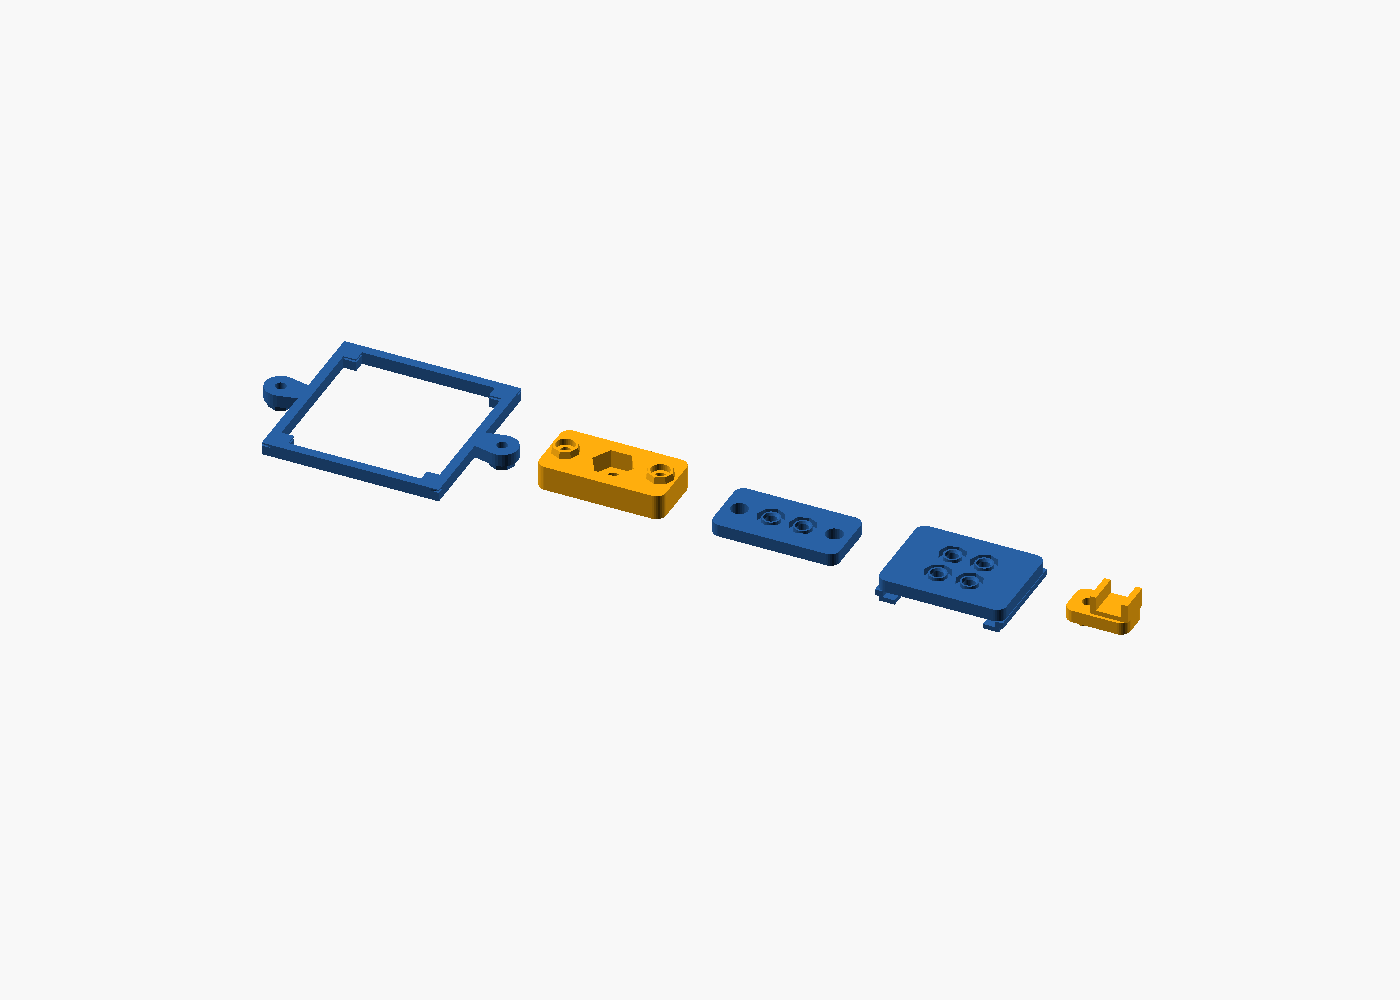
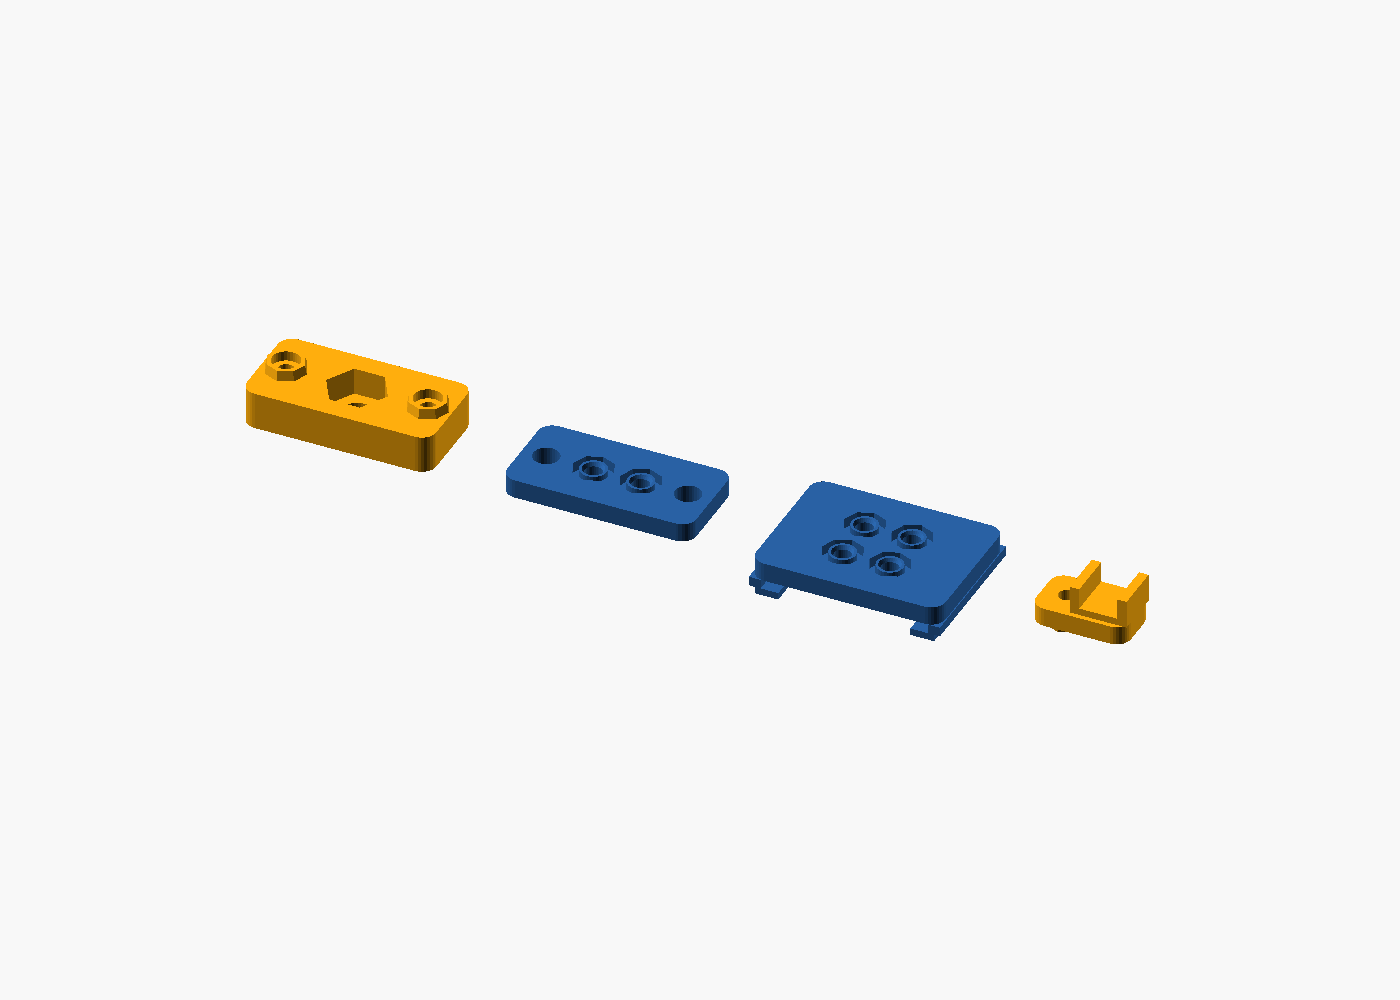
Remove AprilTag holder

Changed region(s): [[0.1536, 0.341, 0.8293, 0.651]]

diff --git a/docs/PRODUCT.md b/docs/PRODUCT.md
@@ -25,7 +25,6 @@ is not a safety component. A production release requires every gate in
 | RM-GR-2060-A | `grove_carrier_20x60.stl` | A | Grove 20×60 carrier |
 | RM-GR-4040-A | `grove_carrier_40x40.stl` | A | Grove 40×40 carrier |
 | RM-GR-4060-A | `grove_carrier_40x60.stl` | A | Grove 40×60 carrier |
-| RM-AT-0050-A | `apriltag_holder_50.stl` | A | 50 mm AprilTag holder |
 | RM-TR-1420-A | `tripod_adapter.stl` | A | 1/4-20 tripod adapter |
 | RM-PF-2020-A | `profile_2020_adapter.stl` | A | 20-series slot-6 adapter |
 | RM-DN-TH35-A | `din_rail_adapter.stl` | A | TH35 end-slide adapter |
@@ -71,7 +70,6 @@ standoff insert after passing through a 1.6 mm PCB.
 | 2020 adapter | V0.1 pegs/carriers | 20-series, 6 mm slot, M5 T-nuts | Not for slot-5, slot-8, or 40-series profiles without verification |
 | DIN adapter | V0.1 pegs/carriers | EN 60715 TH35 rail | Slides on from a free rail end; it is not a front-snap clip |
 | Tripod adapter | V0.1 plate | 1/4-20 tripod screw | Maximum 4.5 mm screw entry into adapter |
-| AprilTag holder | V0.1 plate | 50×50 mm printed card | No optical-range claim; print tag at exact scale |
 | Cable clip | V0.1 plate | 7.5 mm nominal flat Grove cable | Verify cable jacket compression before repeated use |
 | H25T drive plate | Four V0.1 corner female ports with M3-through paths | STS3215/LeRobot H25T horn, 4×M3 at 7 mm radius | All five horn screws install from the port face |
 | H25T end-effector hub | H25T drive plate | Five top ports plus two ports on each vertical face | Four 22 mm corner M3 access bores lock into the drive plate |

diff --git a/docs/LIBRARY.md b/docs/LIBRARY.md
@@ -23,7 +23,6 @@ flat_join(width_ports=2, depth_ports=2);
 angle_join(width_ports=2, depth_ports=2);
 outer_angle_join(width_ports=2, depth_ports=2, plate_t=RM_PLATE_T);
 grove_carrier(board_size=[20,20]);
-apriltag_holder(tag_size=50, border=RM_TAG_BORDER);
 tripod_adapter();
 profile_2020_adapter();
 din_rail_adapter();
@@ -75,10 +74,6 @@ Eight RobotSkin locks attach the empty carrier before either PCB is installed.
 legs. Its underside sits 30 mm above the plate, clearing the carrier-mounted
 Raspberry Pi 5 with the official active cooler. Recessed access bores retain
 the standard M3×6 lock screws at all four feet.
-
-`apriltag_holder()` accepts a square size or `[width,height]` and retains the
-printed card between four corner shelves and tabs. Its two M3 stations are
-outside the image area and remain accessible.
 
 The mounting adapters deliberately expose RobotSkin in the useful direction:
 `tripod_adapter()` places two upward pegs under a plate, while the 2020-profile

diff --git a/docs/PRINTING.md b/docs/PRINTING.md
@@ -26,7 +26,7 @@ printer. Orientations are already encoded in the production exports.
 | Inside/outside angle joins | As exported; local support below the horizontal connector row |
 | UNO carrier | Long frame edge on bed; local support only beneath horizontal connector details when bridging fails |
 | Raspberry Pi table | Tabletop on bed, legs and pegs upward; no support |
-| AprilTag, tripod, 2020, DIN, cable clip | As exported; inspect slicer preview before first production run |
+| Tripod, 2020, DIN, cable clip | As exported; inspect slicer preview before first production run |
 
 Reject a print when a port or peg has missing perimeters, an insert pocket is
 closed, a wall is visibly delaminated, or the first layer changes a mating

diff --git a/README.md b/README.md
@@ -22,8 +22,8 @@ custom enclosure every time.
 - **Structures:** flat, inner-corner, and outer-corner joins.
 - **Electronics:** Grove sensor carriers, a cable clip, and a solid UNO-format
   carrier.
-- **Mounting adapters:** AprilTag, camera-tripod, 20-series extrusion, and TH35
-  DIN rail adapters, plus an H25T servo-horn plate.
+- **Mounting adapters:** camera-tripod, 20-series extrusion, and TH35 DIN rail
+  adapters, plus an H25T servo-horn plate.
 
 <p align="center">
   <img src="docs/assets/uno-carrier.png" alt="UNO-format carrier on a RobotSkin plate" width="48%">

diff --git a/docs/ASSEMBLY.md b/docs/ASSEMBLY.md
@@ -31,11 +31,6 @@ connector clearance: leave it empty. Do not heat-set an insert in that opening
 or in the carrier. The brass M3 inserts belong exclusively in the matching
 female ports of the RobotSkin plate.
 
-## AprilTag holder
-
-Attach the empty frame through its two exposed M3 stations. Flex the printed
-tag card gently under the four corner tabs; no adhesive is required.
-
 ## External mounting adapters
 
 - `tripod_adapter`: place a standard 1/4-20 hex nut in the top pocket, then
